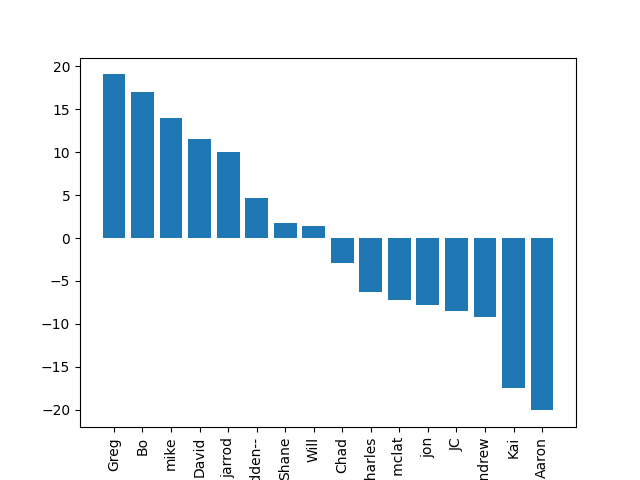
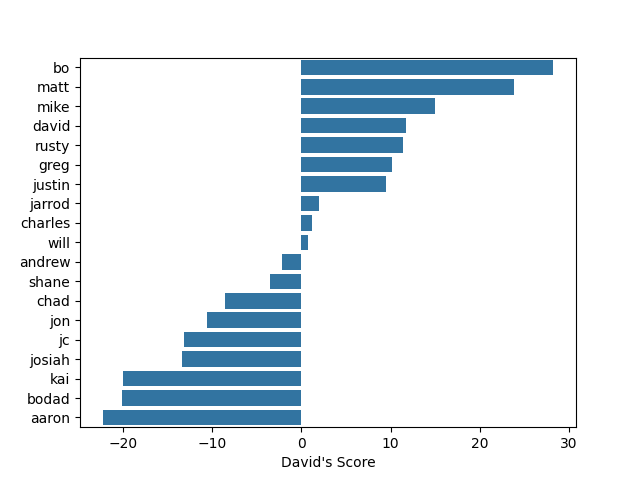
refactor analysis, update figures

diff --git a/6-analysis.py b/6-analysis.py
@@ -8,12 +8,24 @@ import matplotlib.pyplot as plt
 from HierarchiaPy import Hierarchia
 import seaborn as sns
 from datetime import datetime
+import re
 
 # Load data
 matchups = pd.read_csv("data/matchups.csv", index_col=0)
 drafts = pd.read_csv("data/drafts.csv", index_col=0)
 transactions = pd.read_csv("data/transactions.csv", index_col=0)
 teams = pd.read_csv("data/teams.csv", index_col=0)
+
+# Fix some missing manager names
+teams.loc[(teams['name'] == 'Rubber City Galoshes'), 'nickname'] = 'matt_harbert'
+teams.loc[(teams['name'] == 't-t-totally dudes'), 'nickname'] = 'josiah mclat'
+teams.loc[(teams['name'] == 'The Woebegones'), 'nickname'] = 'Charles'
+teams.loc[(teams['name'] == "Doinel's Destroyers!"), 'nickname'] = 'Rusty Blevins'
+teams.loc[(teams['name'] == 'The Five Toes'), 'nickname'] = 'Justin Smith'
+teams.loc[(teams['name'] == 'Browns West'), 'nickname'] = 'Bodad'
+
+# Check it worked
+len(teams[teams['nickname'] == '--hidden--']) == 0
 
 picks = teams.loc[teams['nickname'].str.contains('Chad'), 'team_key'].tolist()
 
@@ -60,7 +72,7 @@ matchups['matchup'] = matchups.groupby(['year','week']).cumcount() + 1
 
 # This melts the data frame- really useful 'stubs' argument
 
-matchups_melted = pd.wide_to_long(matchups, axis=1, stubnames=['points','team_key'], i=['year','week','matchup'], j='team_id')
+matchups_melted = pd.wide_to_long(matchups, stubnames=['points','team_key'], i=['year','week','matchup'], j='team_id')
 
 # matchups_melted.pivot_table(values=['points'], index=['week'], columns='team')
 
@@ -76,6 +88,7 @@ df['loser'] = np.where(df['points1'] < df['points2'], df['nickname'], df['nickna
 # Lookup dict to change names
 m = {'Buie': 'JC', 'daniel': 'Will'}
 
+
 # Replace names
 df['winner'].replace(m, inplace=True)
 df['loser'].replace(m, inplace=True)
@@ -87,27 +100,41 @@ df['loser'].value_counts()
 # Create dominance matrix
 hier_df = Hierarchia(df, 'winner', 'loser')
 
+# Shorten names
+nms = hier_df.indices
+nms_short = [re.split('[ _]', x)[0].lower() for x in nms]
+
+# BUG fix this- not working now
+fig, ax = plt.subplots()
+ax = sns.heatmap(hier_df.mat, cmap='cividis', annot=True, fmt=".0f", xticklabels=nms_short, yticklabels=nms_short, ax=ax)
+ax.xaxis.set_ticks_position('top')  # Move x-axis labels to the top
+ax.xaxis.set_label_position('top')  # Move x-axis labels to the top
+ax.tick_params(axis='x', rotation=90)
+ax.set_xlabel('Loser')
+ax.set_ylabel('Winner')
+plt.savefig("figures/dominance_matrix.png")
+
 print(hier_df.mat)
 print(hier_df.indices)
 
 # Davids score is a measure of dominance
+hier_df.indices = nms_short
 davids_scores = hier_df.davids_score()
 print(davids_scores)
 
-# Who is "--hidden--"? Maybe Matt Harbert?
-df[df['nickname']=='--hidden--']['name'].value_counts()
-# name
-# Doinel's Destroyers!    13
-# The Woebegones           9
-# Browns West              7
-# Rubber City Galoshes     4
-# The Five Toes            3
-
 # Save plot
-plt.bar(davids_scores.keys(), davids_scores.values())
-plt.xticks(rotation=90)
+plt.barh(davids_scores.keys(), davids_scores.values())
+
+df_davids_scores = pd.DataFrame.from_dict(davids_scores, orient='index')
+df_davids_scores = df_davids_scores.reset_index()
+df_davids_scores.columns = ['index', 'david']
+
+sns.barplot(df_davids_scores, x='david', y='index')
+plt.xlabel("David's Score")
+plt.ylabel("")
 plt.savefig("figures/davids.png")
 
+%matplotlib inline
 
 def calc_david(df):
     hmat = Hierarchia(df, "winner", "loser")
